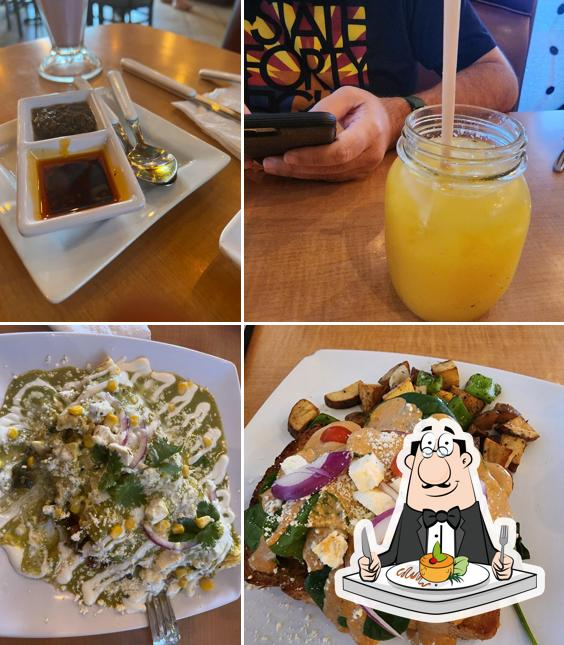
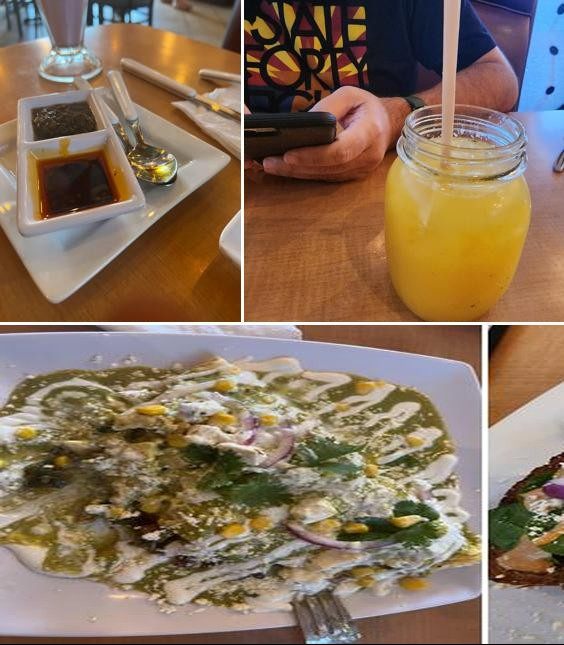
Remove cartoon chef from both collages; fix server photo category and caption

diff --git a/gallery.html b/gallery.html
@@ -176,9 +176,9 @@
       <span class="sr-only" data-es="Chocolate caliente en taza artesanal. El desayuno empieza bien." data-en="Hot chocolate in a handmade mug. A good way to start."></span>
     </div>
 
-    <div class="masonry-item" data-cat="bebidas" role="listitem" aria-label="Aguas frescas y bebidas">
-      <img src="assets/interior_drink.png" alt="Aguas frescas y bebidas de Boulevard 301" loading="lazy">
-      <span class="sr-only" data-es="Aguas frescas y presentación de bebidas." data-en="Aguas frescas and drinks presentation."></span>
+    <div class="masonry-item" data-cat="interiores" role="listitem" aria-label="Servidora de Boulevard 301">
+      <img src="assets/interior_drink.png" alt="Servidora de Boulevard 301 llevando platillos" loading="lazy">
+      <span class="sr-only" data-es="Servicio con gusto. As&#237; es Boulevard 301." data-en="Service with a smile. That's Boulevard 301."></span>
     </div>
 
     <!-- EXTERIOR -->